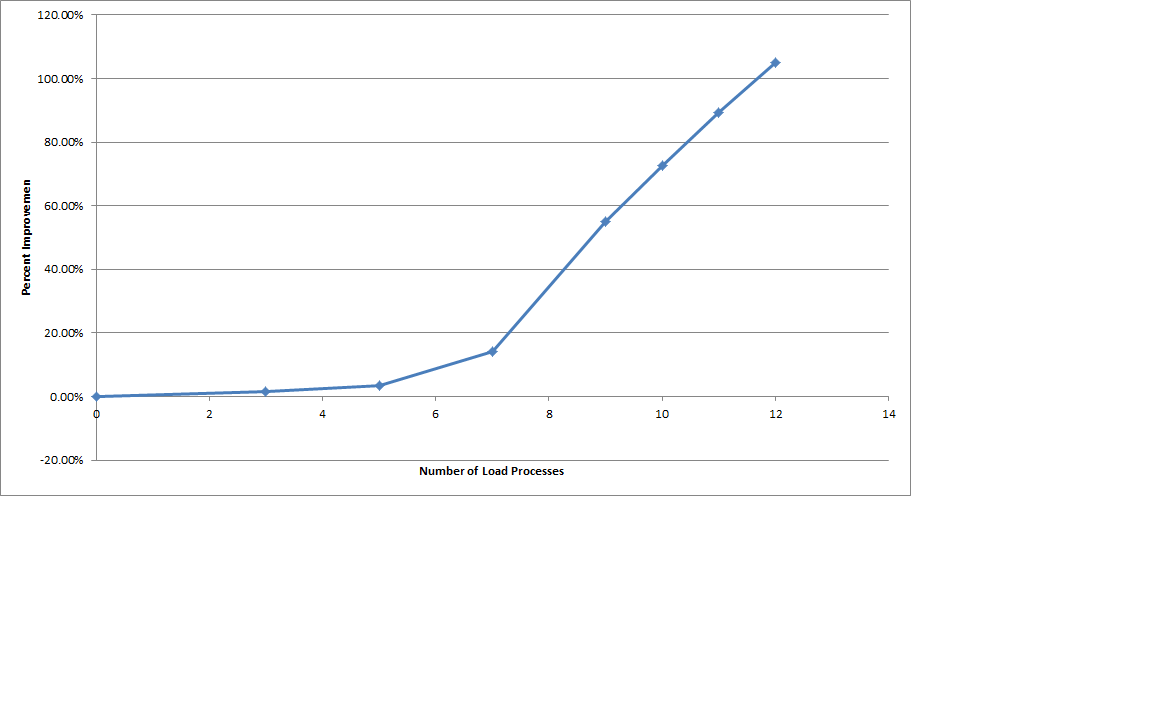
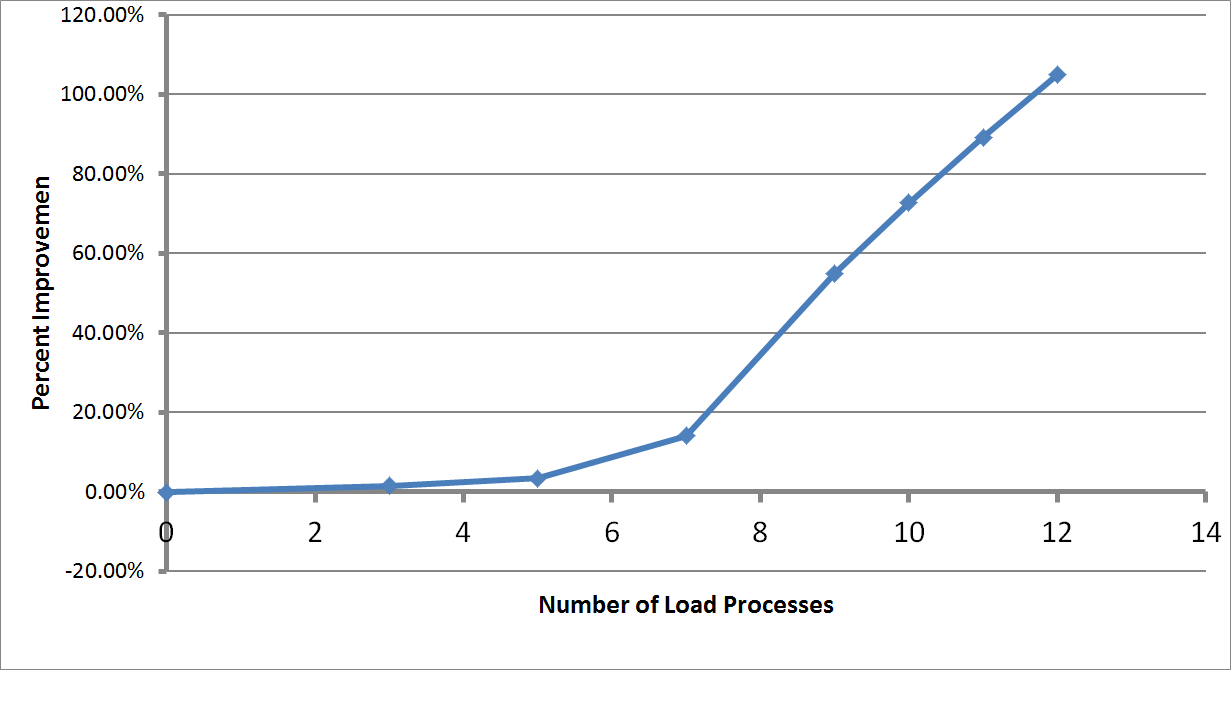
improved images + eval

diff --git a/final/evaluation.tex b/final/evaluation.tex
@@ -9,4 +9,7 @@ Our experiment uses 15 single core VMs, each with 1.5GB of memory.  At the begin
 
 On the first pass, we run one task inside each VMs.  On the second pass, we run the same tasks at the same times for each of the VMs.  In addition to this, we also run CPU intensive \emph{loads} (note the difference from tasks) on two of the Node Controllers (outside the VMs).  These loads consist of a looped process alternating between bc calculations and nothing (a call to sleep), and use varying sleep durations, in order to load one Node Controller 30% more than the other.  On additional passes, we continue to add more loads to the two node controllers.
 
-As shown in figures *don't exist yet*, as the load on the system increases, Koala's performance degrades much less than a standard Eucalyptus system.  When there are no or few load processes on the nodes, Koala performs almost identically to Eucalyptus, as the system isn't fully utilized to begin with.  As the number of load processes increase, the points at which machines are overloaded are more frequent, and Koala's scheduler has more opportunity to improve the configuration of the VMs.
+As shown in Figures \ref{fig:koala_average_task_times},\ref{fig:koala_average_task_ratio}, as the load on the system increases, Koala's performance degrades much less than a standard Eucalyptus system.  When there are no or few load processes on the nodes, Koala performs almost identically to Eucalyptus, as the system isn't fully utilized to begin with.  As the number of load processes increase, the points at which machines are overloaded are more frequent, and Koala's scheduler has more opportunity to improve the configuration of the VMs.
+
+\scalefig{koala_average_task_times}{1}{Average task durations for Eucalyptus and Koala}
+\scalefig{koala_average_task_ratio}{1}{Improvement of Koala over Eucalytpus}
